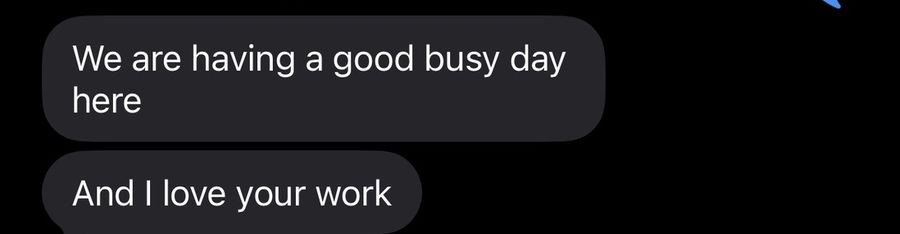
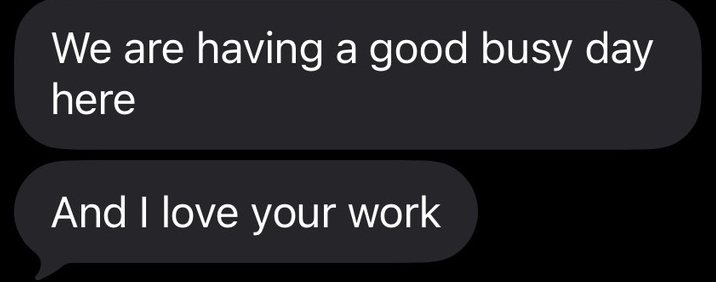
Copy fixes, remove receipts, cleaner client texts, no one-word last lines
- Hero lede and meta description say "We build" instead of "CreateYL builds"
- Removed the small line under the hero buttons
- Rewrote the first two "Sound familiar?" lines for established operators
- Removed the receipts section and its screenshots
- Client texts re-cropped, text sizes normalized, shown in even cards
- text-wrap: pretty plus a guard that keeps the last two words together

Claude-Session: https://claude.ai/code/session_01NQ6jbMdSueAmfjUF8obRai

diff --git a/index.html b/index.html
@@ -60,6 +60,7 @@ h1 { font-size: clamp(2.7rem, 8vw, 5.4rem); }
 h2 { font-size: clamp(2rem, 5.4vw, 3.3rem); }
 h1 em, h2 em { font-style: italic; font-weight: 400; color: var(--sand); }
 p { margin: 0; }
+p, li, blockquote, .help span, .step span, .strip span { text-wrap: pretty; }
 .lede { font-size: clamp(1.1rem, 2.4vw, 1.3rem); color: var(--mist); opacity: .86; max-width: 56ch; }
 .muted { color: var(--muted); }
 
@@ -146,15 +147,9 @@ p { margin: 0; }
 .ticket footer { font: 400 1rem/1.2 var(--heading); letter-spacing: .1em; color: var(--muted); }
 
 .sub-h { font: 400 1.5rem/1 var(--heading); letter-spacing: .1em; color: var(--white); margin: 64px 0 18px; }
-.receipts { display: grid; grid-template-columns: repeat(4, minmax(0,1fr)); gap: 16px; align-items: start; }
-.before-after { grid-column: 1 / -1; display: grid; grid-template-columns: minmax(0, 1fr) minmax(0, 1.5fr); gap: 16px; align-items: center; }
-.shot { margin: 0; display: grid; gap: 8px; min-width: 0; }
-.shot img { width: 100%; border-radius: 3px; border: 1px solid var(--line); background: var(--surface); cursor: zoom-in; transition: border-color .2s ease; }
-.shot img:hover { border-color: var(--sand); }
-.shot figcaption { font-size: .9rem; color: var(--muted); line-height: 1.4; }
-.shot figcaption b { color: var(--white); font-weight: 500; }
-.texts { columns: 3 260px; column-gap: 16px; }
-.texts img { width: 100%; border-radius: 3px; border: 1px solid var(--line); margin-bottom: 16px; break-inside: avoid; cursor: zoom-in; }
+.texts { columns: 2 320px; column-gap: 18px; }
+.msg { break-inside: avoid; margin: 0 0 18px; background: #000; border: 1px solid var(--line); border-radius: 16px; padding: 18px 16px; }
+.msg img { display: block; max-width: 100%; height: auto; cursor: zoom-in; }
 
 /* CTA */
 .cta-box { background: linear-gradient(150deg, var(--teal), #002424); border: 1px solid rgba(203,175,135,.3); border-radius: 4px; padding: clamp(28px, 6vw, 56px); display: grid; gap: 22px; }
@@ -190,8 +185,7 @@ footer.site a:hover { color: var(--sand); }
   .strip > div:nth-child(n+3) { border-top: 1px solid var(--line); }
   .split { grid-template-columns: 1fr; gap: 36px; }
   .photo { aspect-ratio: 16/10; }
-  .receipts { grid-template-columns: repeat(2, minmax(0,1fr)); }
-  .tickets { grid-template-columns: 1fr; }
+    .tickets { grid-template-columns: 1fr; }
 }
 @media (max-width: 680px) {
   section { padding-block: 72px; }
@@ -201,8 +195,7 @@ footer.site a:hover { color: var(--sand); }
   .steps { grid-template-columns: 1fr; }
   .videos { grid-template-columns: 1fr; }
   .videos .tall { max-width: 340px; width: 100%; justify-self: center; }
-  .before-after { grid-template-columns: 1fr; }
-  .btn-row .btn { width: 100%; }
+    .btn-row .btn { width: 100%; }
   .sticky-cta { display: block; }
   body { padding-bottom: 84px; }
 }
@@ -234,12 +227,11 @@ footer.site a:hover { color: var(--sand); }
     <div class="wrap">
       <p class="eyebrow">Social media for food businesses</p>
       <h1>Your food is already loved in person. <em>Let's get it seen online.</em></h1>
-      <p class="lede">CreateYL builds a content system around your business, so the people who should be your regulars actually find you. We do it with you, step by step, in 90 days.</p>
+      <p class="lede">We build a content system around your business, so the people who should be your regulars actually find you. We do it with you, step by step, in 90 days.</p>
       <div class="btn-row">
         <a class="btn book" href="https://calendly.com/dfernandez-createyl/discovery-call" target="_blank" rel="noopener">Book a free growth call</a>
         <a class="btn ghost" href="#results">See the results</a>
       </div>
-      <p class="micro">30 minutes. We audit your page before we talk.</p>
     </div>
   </section>
 
@@ -251,7 +243,7 @@ footer.site a:hover { color: var(--sand); }
       <div><b>10M</b><span>views on a single client reel</span></div>
       <div><b>25.2K</b><span>people follow @createyl, built with the same system</span></div>
     </div>
-    <p class="strip-note">Real numbers from real accounts. Screenshots below.</p>
+    <p class="strip-note">Real numbers from real client accounts.</p>
   </div>
 
   <!-- FLOODLIGHT THE PROBLEM -->
@@ -260,8 +252,8 @@ footer.site a:hover { color: var(--sand); }
       <p class="eyebrow">Sound familiar?</p>
       <h2>You built something people love. <em>Online, it's still a secret.</em></h2>
       <ul class="pains">
-        <li>You've been open for years and people nearby still don't know you exist.</li>
-        <li>You post, the views come in, and nothing changes at the register.</li>
+        <li>People love your place in person. Your page doesn't show it.</li>
+        <li>You post, but your page isn't bringing in new faces or reminding regulars to come back.</li>
         <li>You're running the place. Planning, editing, and posting never get done.</li>
         <li>You tried an agency or a freelancer. You got pretty posts and no plan.</li>
       </ul>
@@ -333,27 +325,15 @@ footer.site a:hover { color: var(--sand); }
           <footer>On a call with us</footer></article>
       </div>
 
-      <h3 class="sub-h reveal">The receipts</h3>
-      <div class="receipts reveal">
-        <div class="before-after">
-          <figure class="shot"><img src="assets/proof/followers-before.jpg" alt="Instagram profile showing 3,285 followers" loading="lazy" width="603" height="535"><figcaption><b>Before:</b> 3,285 followers</figcaption></figure>
-          <figure class="shot"><img src="assets/proof/followers-now.jpg" alt="Instagram profile showing 11.7K followers" loading="lazy" width="900" height="359"><figcaption><b>Now:</b> 11.7K followers. Fertility clinic, New York</figcaption></figure>
-        </div>
-        <figure class="shot"><img src="assets/proof/reel-10m.jpg" alt="Reel with 10 million views" loading="lazy" width="418" height="652"><figcaption><b>10M views</b> on one reel</figcaption></figure>
-        <figure class="shot"><img src="assets/proof/views-30d.jpg" alt="Instagram insights: 1,012,365 views in 30 days" loading="lazy" width="700" height="820"><figcaption><b>1,012,365 views</b> in 30 days. 0% from ads.</figcaption></figure>
-        <figure class="shot"><img src="assets/proof/reel-651k.jpg" alt="Reel insights: 651,781 views and 725 saves" loading="lazy" width="633" height="1244"><figcaption><b>651,781 views</b> and 725 saves on one reel</figcaption></figure>
-        <figure class="shot"><img src="assets/proof/reels-1m.jpg" alt="Two reels at 1M and 1.1M views" loading="lazy" width="700" height="618"><figcaption><b>1M and 1.1M</b> views, back to back</figcaption></figure>
-      </div>
-
       <h3 class="sub-h reveal">What clients text us</h3>
       <div class="texts reveal">
-        <img src="assets/proof/text-team.jpg" alt="Client text: Thanks for your great work! You push my team working together, in a good way" loading="lazy" width="900" height="339">
-        <img src="assets/proof/text-reach.jpg" alt="Client text: Thank you for all the work and understanding. The reach has been very good" loading="lazy" width="900" height="420">
-        <img src="assets/proof/text-busy.jpg" alt="Client text: We are having a good busy day here. And I love your work" loading="lazy" width="900" height="234">
-        <img src="assets/proof/text-triple.jpg" alt="Client text: I just saw the views on the triple decker video. You did great" loading="lazy" width="834" height="360">
-        <img src="assets/proof/text-videos.jpg" alt="Client text: The videos look good, thank you" loading="lazy" width="900" height="336">
-        <img src="assets/proof/text-reel.jpg" alt="Client text: I saw the new reel, it looks awesome" loading="lazy" width="900" height="246">
-        <img src="assets/proof/text-awesome.jpg" alt="Client text: Hey just wanted to say you are so awesome" loading="lazy" width="900" height="197">
+        <figure class="msg"><img src="assets/proof/text-videos.jpg" style="width:95.6%" alt="Client text: The videos look good! Thank you!" loading="lazy" width="1013" height="404"></figure>
+        <figure class="msg"><img src="assets/proof/text-team.jpg" style="width:71.6%" alt="Client text: Thanks for your great work! You push my team working together. In a good way" loading="lazy" width="759" height="407"></figure>
+        <figure class="msg"><img src="assets/proof/text-reach.jpg" style="width:75.4%" alt="Client text: Thank you for all the work and understanding. The reach has been very good" loading="lazy" width="799" height="506"></figure>
+        <figure class="msg"><img src="assets/proof/text-triple.jpg" style="width:66.9%" alt="Client text: I just saw the views on the triple decker video!! Thank you! You did great!!" loading="lazy" width="709" height="461"></figure>
+        <figure class="msg"><img src="assets/proof/text-busy.jpg" style="width:67.5%" alt="Client text: We are having a good busy day here. And I love your work" loading="lazy" width="716" height="282"></figure>
+        <figure class="msg"><img src="assets/proof/text-reel.jpg" style="width:58.0%" alt="Client text: I saw the new reel. It looks awesome! Thank you!!!" loading="lazy" width="615" height="288"></figure>
+        <figure class="msg"><img src="assets/proof/text-awesome.jpg" style="width:71.4%" alt="Client text: Hey just wanted to say you are so awesome!!" loading="lazy" width="757" height="233"></figure>
       </div>
     </div>
   </section>
@@ -418,6 +398,15 @@ footer.site a:hover { color: var(--sand); }
     });
   }
 
+  // No single word left alone on the last line
+  document.querySelectorAll("p, li, blockquote, h1, h2, .help b, .help span, .step span, .strip span, figcaption, .ticket footer").forEach(function (el) {
+    var w = document.createTreeWalker(el, NodeFilter.SHOW_TEXT), n, last = null;
+    while ((n = w.nextNode())) { if (n.nodeValue.trim()) last = n; }
+    if (!last) return;
+    var t = last.nodeValue.replace(/\s+$/, ""), i = t.lastIndexOf(" ");
+    if (i > 0) last.nodeValue = t.slice(0, i) + "\u00a0" + t.slice(i + 1) + last.nodeValue.slice(t.length);
+  });
+
   // Videos play right on the page
   document.querySelectorAll(".video[data-yt]").forEach(function (fig) {
     var btn = fig.querySelector(".poster");
@@ -434,7 +423,7 @@ footer.site a:hover { color: var(--sand); }
 
   // Tap a screenshot to see it full size
   document.addEventListener("click", function (e) {
-    var img = e.target.closest(".shot img, .texts img");
+    var img = e.target.closest(".msg img");
     if (!img) return;
     var box = document.createElement("div");
     box.className = "lightbox"; box.setAttribute("role", "dialog"); box.setAttribute("aria-label", "Screenshot, full size");
